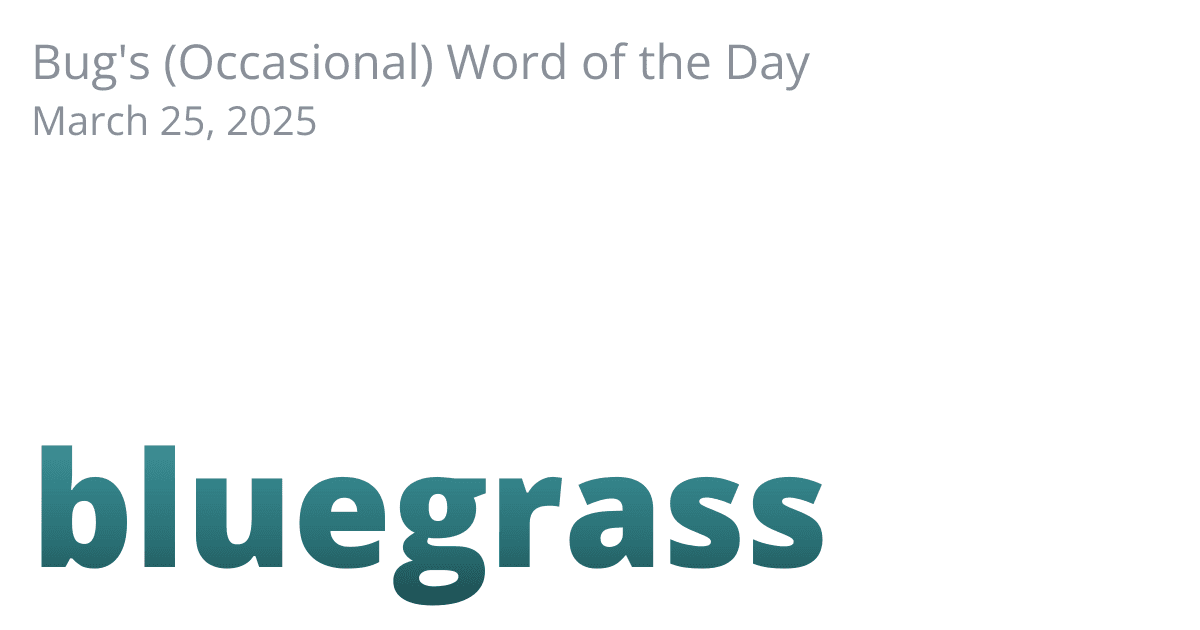
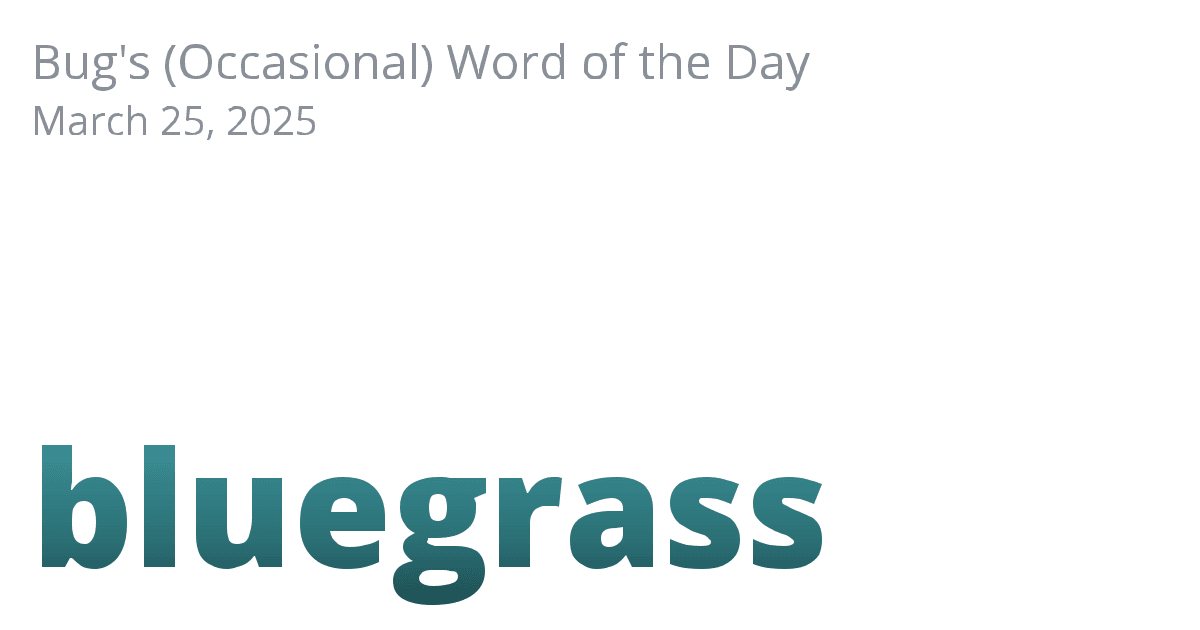
Fix all tool issues

diff --git a/tools/utils.ts b/tools/utils.ts
@@ -20,11 +20,22 @@ const MAX_WIDTH = CANVAS_WIDTH - (PADDING * 2);
 const regularFont = opentype.loadSync('public/fonts/opensans/OpenSans-Regular.ttf');
 const boldFont = opentype.loadSync('public/fonts/opensans/OpenSans-ExtraBold.ttf');
 
+interface WordFile {
+    word: string;
+    date: string;
+    path: string;
+}
+
+interface WordData {
+    word: string;
+    date: string;
+    data: any; // API response type could be more specific if needed
+}
+
 /**
  * Gets all word files from the data directory
- * @returns {Array<{word: string, date: string, path: string}>}
  */
-export function getAllWordFiles() {
+export function getAllWordFiles(): WordFile[] {
     const wordsDir = path.join(process.cwd(), 'src', 'data', 'words');
     const years = fs.readdirSync(wordsDir).filter(dir => /^\d{4}$/.test(dir));
 
@@ -46,9 +57,8 @@ export function getAllWordFiles() {
 
 /**
  * Gets all words with their data from the data directory
- * @returns {Array<{word: string, date: string, data: Object}>}
  */
-export function getAllWords() {
+export function getAllWords(): WordData[] {
     return getAllWordFiles().map(file => {
         const data = JSON.parse(fs.readFileSync(file.path, 'utf-8'));
         return {
@@ -60,11 +70,8 @@ export function getAllWords() {
 
 /**
  * Updates a word file with new data
- * @param {string} filePath - Path to the word file
- * @param {Object} data - Word data
- * @param {string} date - Date string in YYYYMMDD format
  */
-export function updateWordFile(filePath, data, date) {
+export function updateWordFile(filePath: string, data: { word: string }, date: string): void {
     const wordData = {
         word: data.word,
         date: date,
@@ -76,11 +83,8 @@ export function updateWordFile(filePath, data, date) {
 
 /**
  * Fetches word data from the Free Dictionary API
- * @param {string} word - Word to fetch data for
- * @returns {Promise<Object>} - Word data from API
- * @throws {Error} - If API request fails
  */
-export async function fetchWordData(word) {
+export async function fetchWordData(word: string): Promise<any> {
     const response = await fetch(`https://api.dictionaryapi.dev/api/v2/entries/en/${word}`);
     if (!response.ok) {
         throw new Error(`Failed to fetch word data: ${response.statusText}`);
@@ -94,49 +98,40 @@ export async function fetchWordData(word) {
 
 /**
  * Creates a directory if it doesn't already exist
- * @param {string} dir - Directory path to create
  */
-export function createDirectoryIfNeeded(dir) {
+export function createDirectoryIfNeeded(dir: string): void {
     !fs.existsSync(dir) && fs.mkdirSync(dir, { recursive: true });
 }
 
 /**
  * Gets a word by its name from the data directory
- * @param {string} word - Word to find
- * @returns {Object|null} - Word data or null if not found
  */
-export function getWordByName(word) {
+export function getWordByName(word: string): WordData | null {
     const words = getAllWords();
     return words.find(w => w.word.toLowerCase() === word.toLowerCase()) || null;
 }
 
+interface TextPathResult {
+    pathData: string;
+    width: number;
+    height: number;
+    scale: number;
+    transform: string;
+}
+
 /**
  * Convert text to SVG path data with proper scaling
- * @param {string} text - Text to convert
- * @param {number} fontSize - Font size for the text
- * @param {boolean} isExtraBold - Whether to use ExtraBold weight
- * @param {number} maxWidth - Maximum width allowed for the text
- * @returns {Object} - Path data and dimensions
  */
-function getTextPath(text, fontSize, isExtraBold = false, maxWidth = Infinity) {
-    // Use the appropriate font based on weight
+function getTextPath(text: string, fontSize: number, isExtraBold = false, maxWidth = Infinity): TextPathResult {
     const font = isExtraBold ? boldFont : regularFont;
-
-    // Create the path at the original size
     const path = font.getPath(text, 0, 0, fontSize);
-
-    // Get the bounding box
     const bbox = path.getBoundingBox();
     const width = bbox.x2 - bbox.x1;
-
-    // Calculate scale if needed
     const scale = width > maxWidth ? maxWidth / width : 1;
-
-    // If we need to scale, apply it via transform attribute
     const transform = scale < 1 ? ` transform="scale(${scale})"` : '';
 
     return {
-        pathData: path.toPathData(),
+        pathData: path.toPathData(0),
         width: width * scale,
         height: (bbox.y2 - bbox.y1) * scale,
         scale,
@@ -146,14 +141,9 @@ function getTextPath(text, fontSize, isExtraBold = false, maxWidth = Infinity) {
 
 /**
  * Creates an SVG template for a word with its date
- * @param {string} word - The word to create an image for
- * @param {string} date - Date string in YYYYMMDD format
- * @returns {string} - SVG content as a string
  */
-export function createWordSvg(word, date) {
+export function createWordSvg(word: string, date: string): string {
     const formattedDate = formatDate(date);
-
-    // Get path data for all text elements
     const mainWord = getTextPath(word.toLowerCase(), FONT_SIZE, true, MAX_WIDTH);
     const titleText = getTextPath("Bug's (Occasional) Word of the Day", TITLE_SIZE);
     const dateText = getTextPath(formattedDate, DATE_SIZE);
@@ -190,11 +180,9 @@ export function createWordSvg(word, date) {
 
 /**
  * Formats a date string from YYYYMMDD to Month D, YYYY
- * @param {string} dateStr - Date in YYYYMMDD format
- * @returns {string} - Formatted date
  */
-function formatDate(dateStr) {
-    const year = dateStr.slice(0, 4);
+function formatDate(dateStr: string): string {
+    const year = parseInt(dateStr.slice(0, 4));
     const month = parseInt(dateStr.slice(4, 6)) - 1;
     const day = parseInt(dateStr.slice(6, 8));
     const date = new Date(year, month, day);
@@ -207,10 +195,8 @@ function formatDate(dateStr) {
 
 /**
  * Generates a social share image for a word
- * @param {string} word - The word to generate an image for
- * @param {string} date - Date string in YYYYMMDD format
  */
-export async function generateShareImage(word, date) {
+export async function generateShareImage(word: string, date: string): Promise<void> {
     const year = date.slice(0, 4);
     const socialDir = path.join(process.cwd(), 'public', 'images', 'social', year);
     createDirectoryIfNeeded(socialDir);
@@ -228,18 +214,18 @@ export async function generateShareImage(word, date) {
                 colors: 128
             })
             .toFile(outputPath);
-    } catch (error) {
-        throw new Error(`Error generating image for "${word}": ${error.message}`);
+    } catch (error: unknown) {
+        if (error instanceof Error) {
+            throw new Error(`Error generating image for "${word}": ${error.message}`);
+        }
+        throw new Error(`Error generating image for "${word}": Unknown error`);
     }
 }
 
 /**
  * Creates a generic SVG template for pages without a word
- * @param {string} title - The title to display
- * @returns {string} - SVG content as a string
  */
-export function createGenericSvg(title) {
-    // Get path data for all text elements
+export function createGenericSvg(title: string): string {
     const mainWord = getTextPath(title.toLowerCase(), FONT_SIZE, true, MAX_WIDTH);
     const titleText = getTextPath("Bug's (Occasional) Word of the Day", TITLE_SIZE);
 
@@ -270,10 +256,8 @@ export function createGenericSvg(title) {
 
 /**
  * Generates a generic social share image for pages without a word
- * @param {string} title - The title to use in the image
- * @param {string} slug - The page slug/path
  */
-export async function generateGenericShareImage(title, slug) {
+export async function generateGenericShareImage(title: string, slug: string): Promise<void> {
     const socialDir = path.join(process.cwd(), 'public', 'images', 'social', 'pages');
     createDirectoryIfNeeded(socialDir);
 
@@ -290,7 +274,55 @@ export async function generateGenericShareImage(title, slug) {
                 colors: 128
             })
             .toFile(outputPath);
-    } catch (error) {
-        throw new Error(`Error generating generic image for "${title}": ${error.message}`);
+    } catch (error: unknown) {
+        if (error instanceof Error) {
+            throw new Error(`Error generating generic image for "${title}": ${error.message}`);
+        }
+        throw new Error(`Error generating generic image for "${title}": Unknown error`);
     }
+}
+
+interface StaticPage {
+    title: string;
+    path: string;
+}
+
+/**
+ * Get all static pages from the pages directory
+ */
+export function getStaticPages(): StaticPage[] {
+    const pagesDir = path.join(process.cwd(), 'src', 'pages');
+    const pages: StaticPage[] = [];
+
+    function processDirectory(dir: string, basePath: string = ''): void {
+        const entries = fs.readdirSync(dir);
+
+        for (const entry of entries) {
+            const fullPath = path.join(dir, entry);
+            const stat = fs.statSync(fullPath);
+
+            if (stat.isDirectory()) {
+                processDirectory(fullPath, path.join(basePath, entry));
+                continue;
+            }
+
+            if (!entry.endsWith('.astro')) continue;
+
+            const relativePath = path.join(basePath, entry.replace('.astro', ''));
+            const normalizedPath = relativePath.replace(/\/index$/, '');
+
+            // Read the file to extract the title from the frontmatter
+            const content = fs.readFileSync(fullPath, 'utf-8');
+            const titleMatch = content.match(/title:\s*["'](.+?)["']/);
+            const title = titleMatch ? titleMatch[1] : normalizedPath;
+
+            pages.push({
+                title,
+                path: normalizedPath
+            });
+        }
+    }
+
+    processDirectory(pagesDir);
+    return pages;
 }

diff --git a/tools/generate-word-data.ts b/tools/generate-word-data.ts
@@ -1,4 +1,4 @@
-import { getAllWordFiles, fetchWordData, updateWordFile } from './utils.js';
+import { getAllWordFiles, fetchWordData, updateWordFile } from './utils';
 
 /**
  * Reprocesses all word data with fresh API data
@@ -16,14 +16,22 @@ async function reprocessWords() {
                 updateWordFile(file.path, data, file.date);
                 // Add a small delay to avoid rate limiting
                 await new Promise(resolve => setTimeout(resolve, 1000));
-            } catch (error) {
-                console.error(`Error processing ${file.word}:`, error.message);
+            } catch (error: unknown) {
+                if (error instanceof Error) {
+                    console.error(`Error processing ${file.word}:`, error.message);
+                } else {
+                    console.error(`Error processing ${file.word}:`, String(error));
+                }
             }
         }
 
         console.log('Finished reprocessing words');
-    } catch (error) {
-        console.error('Error reprocessing words:', error.message);
+    } catch (error: unknown) {
+        if (error instanceof Error) {
+            console.error('Error reprocessing words:', error.message);
+        } else {
+            console.error('Error reprocessing words:', String(error));
+        }
         process.exit(1);
     }
 }

diff --git a/tools/generate-word-image.ts b/tools/generate-word-image.ts
@@ -1,5 +1,5 @@
-import { generateShareImage } from './utils.js';
-import { getWordByName } from './utils.js';
+import { generateShareImage } from './utils';
+import { getWordByName } from './utils';
 
 const [,, word] = process.argv;
 
@@ -17,7 +17,11 @@ try {
 
     await generateShareImage(word, wordData.date);
     console.log(`Generated social share image for "${word}" (${wordData.date})`);
-} catch (error) {
-    console.error(`Error generating image for "${word}":`, error.message);
+} catch (error: unknown) {
+    if (error instanceof Error) {
+        console.error(`Error generating image for "${word}":`, error.message);
+    } else {
+        console.error(`Error generating image for "${word}":`, String(error));
+    }
     process.exit(1);
 }

diff --git a/tools/generate-page-image.ts b/tools/generate-page-image.ts
@@ -1,11 +1,10 @@
-import { generateGenericShareImage } from './utils.js';
-import { getStaticPages } from '../src/utils/page-utils.js';
+import { generateGenericShareImage, getStaticPages } from './utils';
 
 /**
  * Generate a social image for a specific page
- * @param {string} pagePath - The path of the page to generate an image for
+ * @param pagePath - The path of the page to generate an image for
  */
-async function generatePageImage(pagePath) {
+async function generatePageImage(pagePath: string) {
     if (!pagePath) {
         throw new Error('Page path is required');
     }

diff --git a/tools/generate-generic-images.ts b/tools/generate-generic-images.ts
@@ -1,5 +1,4 @@
-import { generateGenericShareImage } from './utils.js';
-import { getStaticPages } from '../src/utils/page-utils.js';
+import { generateGenericShareImage, getStaticPages } from './utils';
 import fs from 'fs';
 import path from 'path';
 

diff --git a/tools/generate-word-images.ts b/tools/generate-word-images.ts
@@ -1,4 +1,4 @@
-import { createWordSvg, getAllWords } from './utils.js';
+import { createWordSvg, getAllWords } from './utils';
 import fs from 'fs/promises';
 import path from 'path';
 import sharp from 'sharp';
